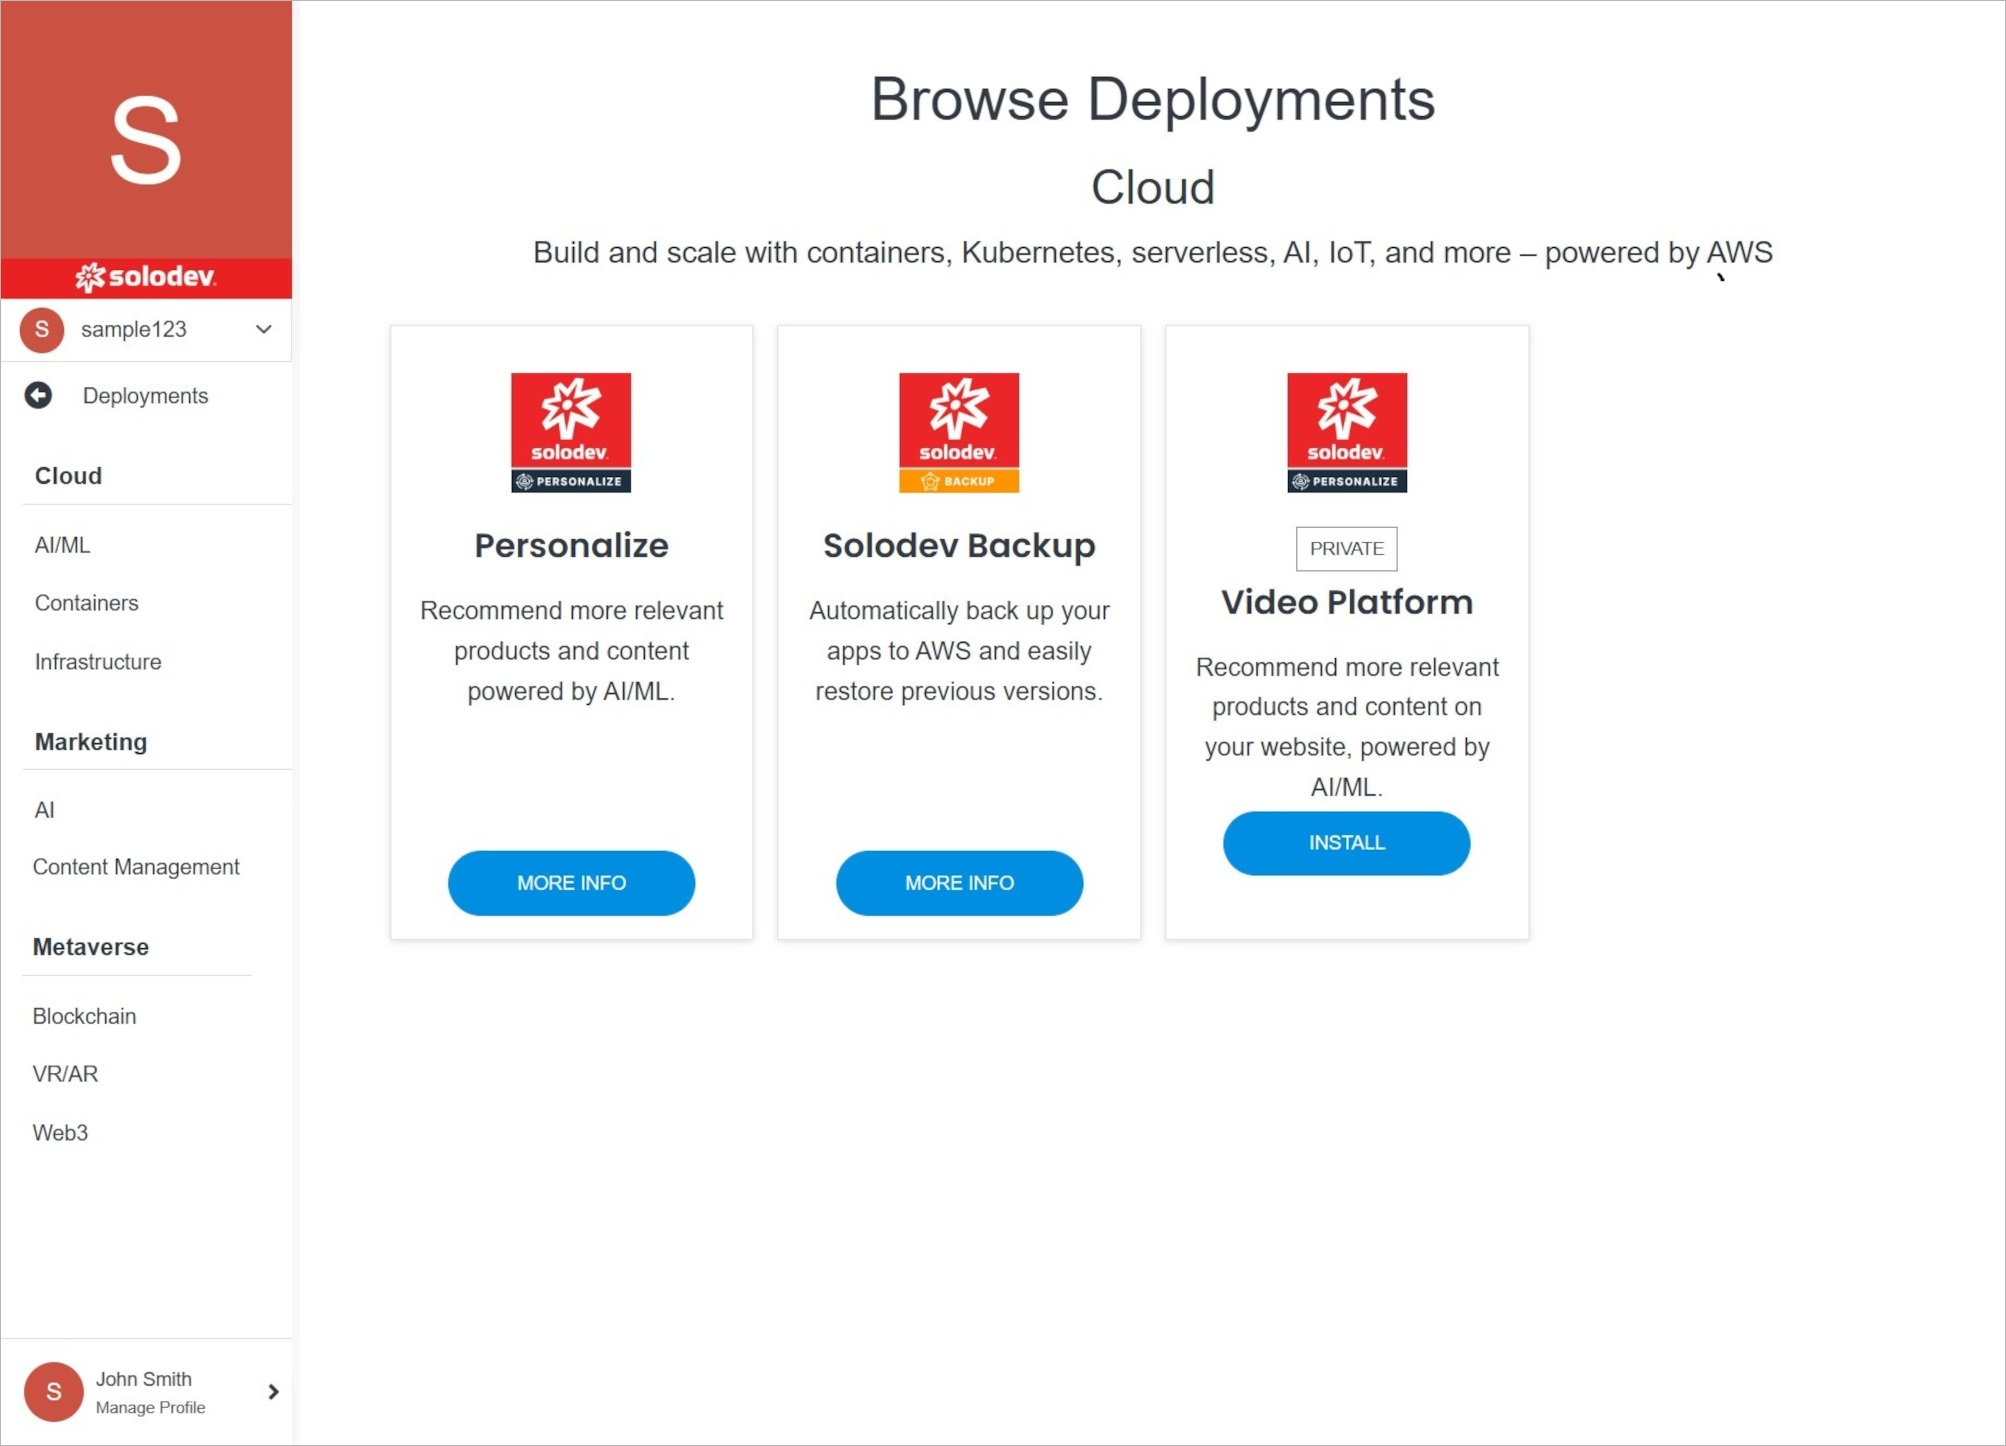
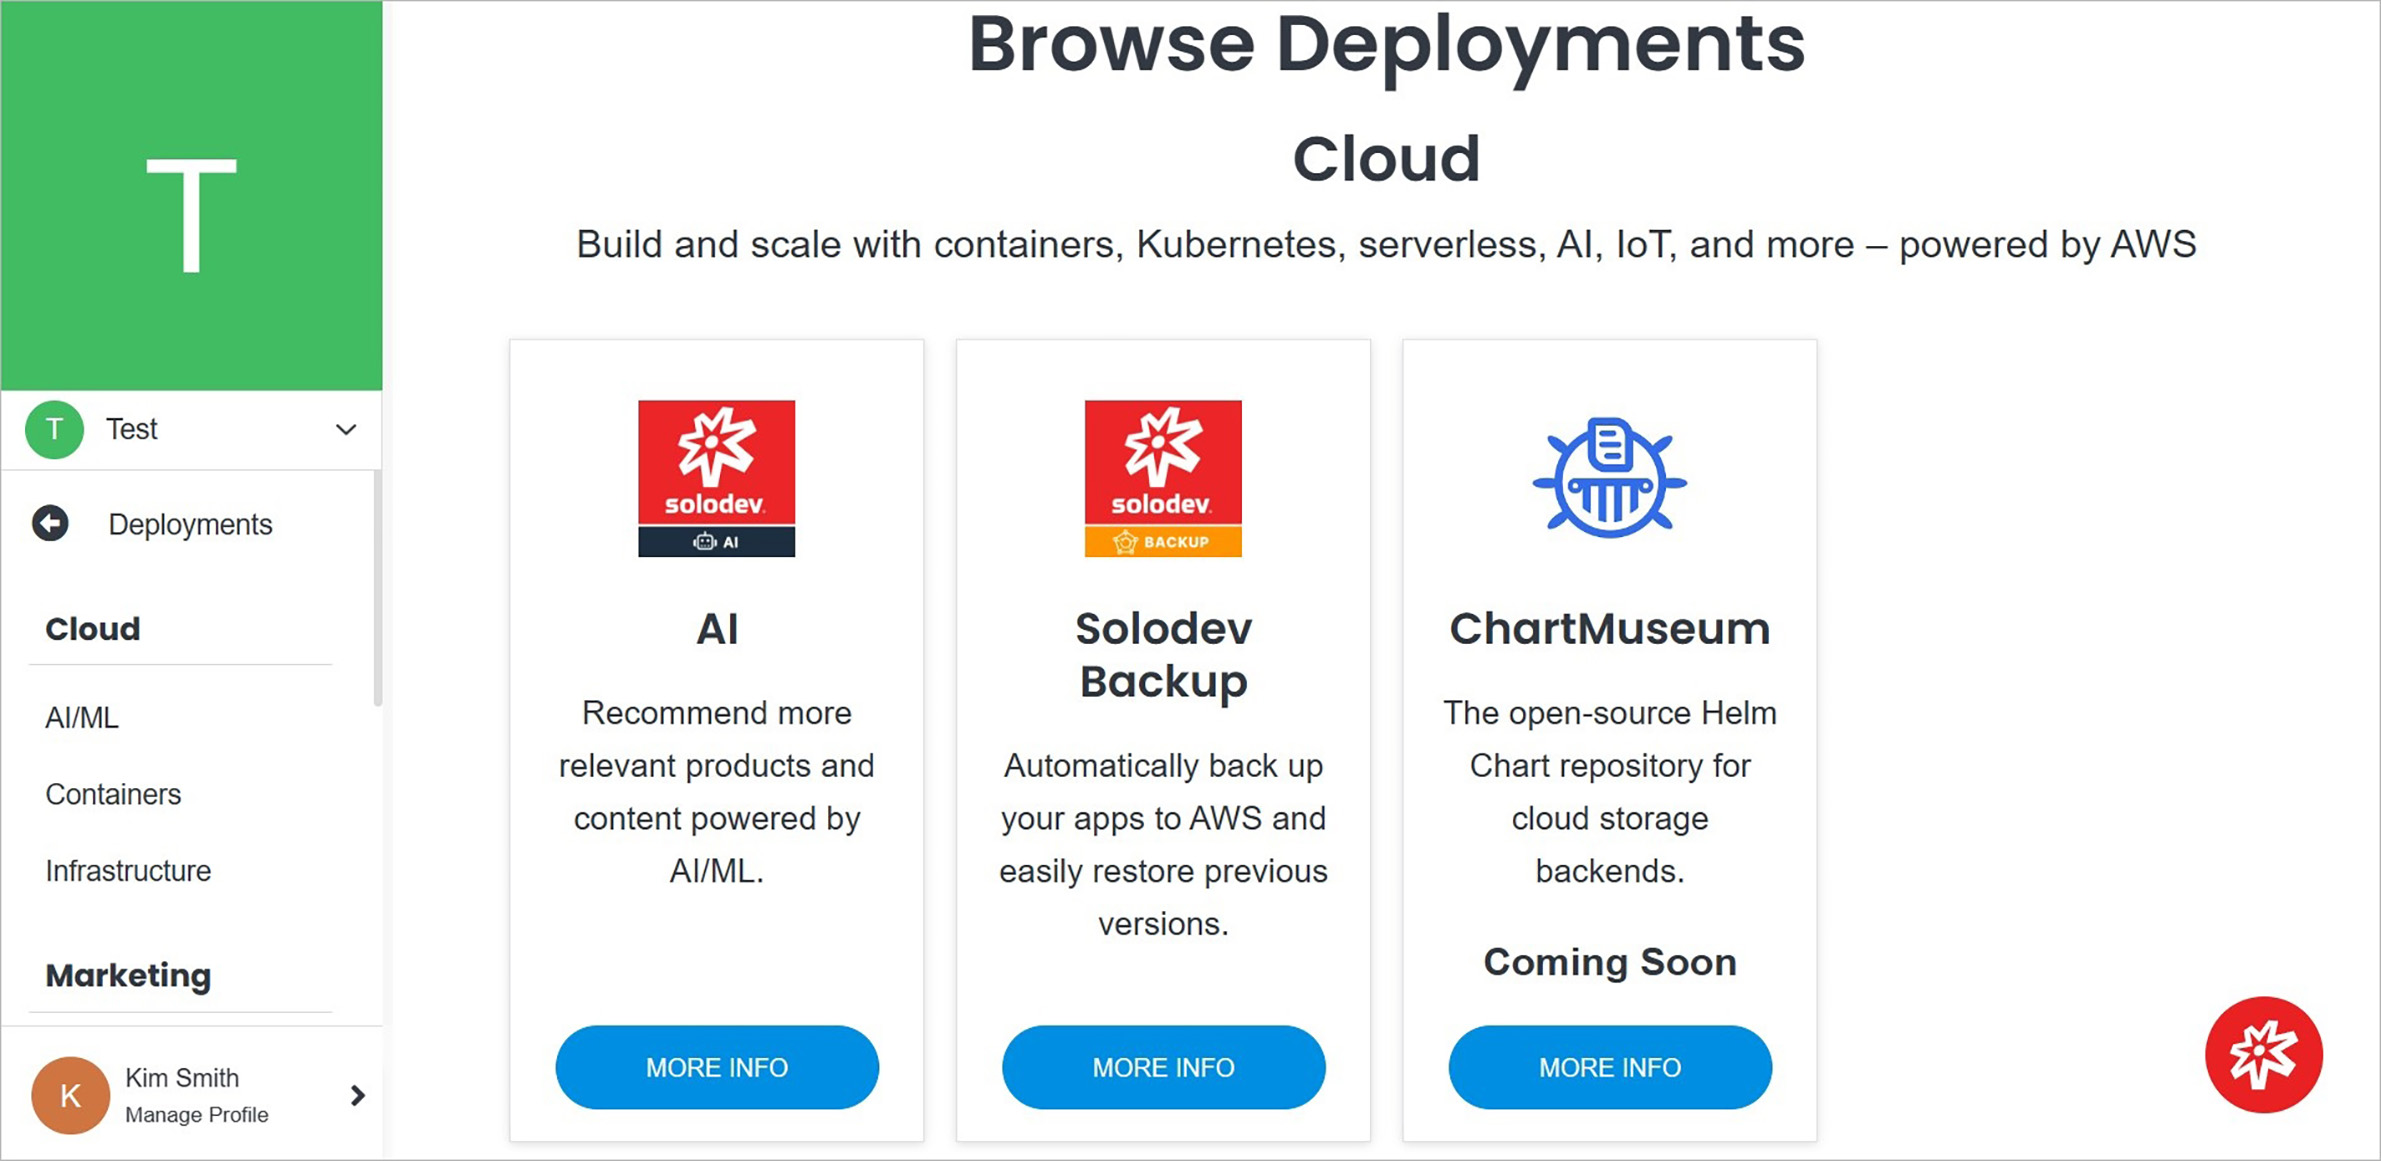
Deployments changed

diff --git a/src/infrastructure/deployments/Add Deployment/index.md b/src/infrastructure/deployments/Add Deployment/index.md
@@ -6,18 +6,18 @@ Adding a deployment in Solodev Cloud is a simple process and can be completed in
 
 **Name** | **Description** 
 :--- | ---
-Deployment Selection | Select the deployment you are interested in by clicking on the button on the product card.
+Product Selection | Select the product you are interested in by clicking the blue button on the product card.
 
 !!!Note:
-Some deployments have a purchase option, while others require that you contact Solodev by filling out the contact form. Some are already published in Solodev Cloud and are in the catalog, and you can launch them to your Solodev Cloud. Below is an example of the **Video Platform** deployment that can be launched immediately without purchasing or contacting Solodev.
+Some products have a purchase option. For others without a purchase option, contact Solodev by filling out the contact form.
 !!!
-
-<img src="../../../images/adddeployment2.jpg" alt="adddeployment2" style="width: 100% display: block"></a>
-
-**Name** | **Description** 
-:--- | ---
-Install | Click this button to install the deployment.
 
 !!!Note:
-The next steps required to install the deployment depend on its specific characteristics.
-!!!
+The next steps are presented in the <a href="/services/add-service">Add Service</a>. 
+
+
+
+
+
+
+
